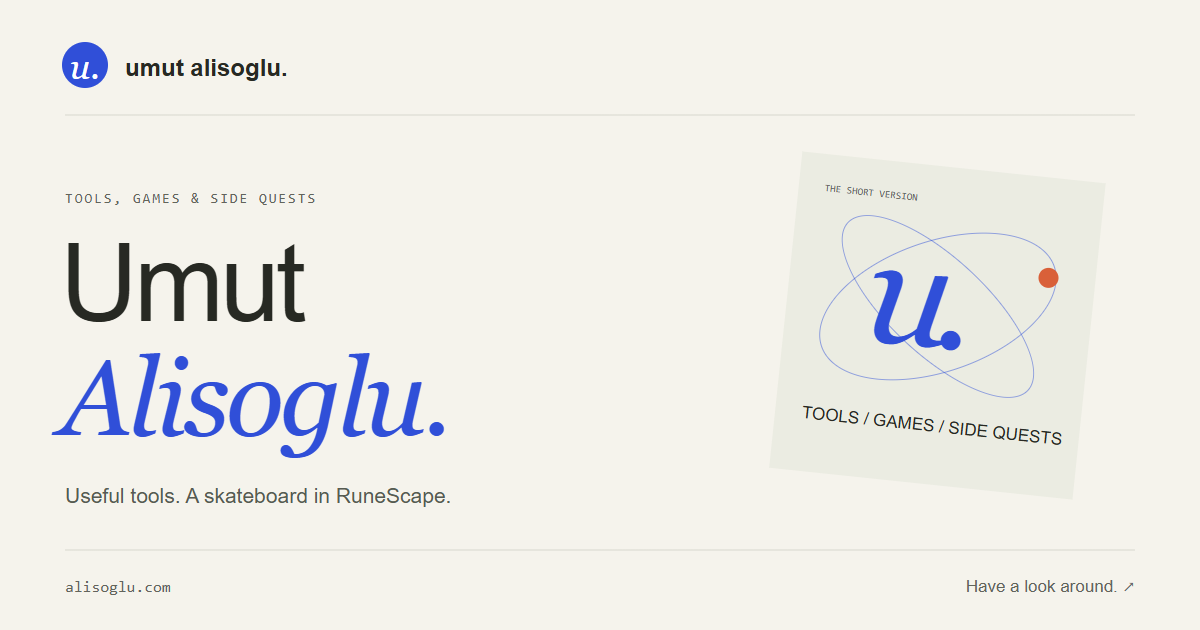
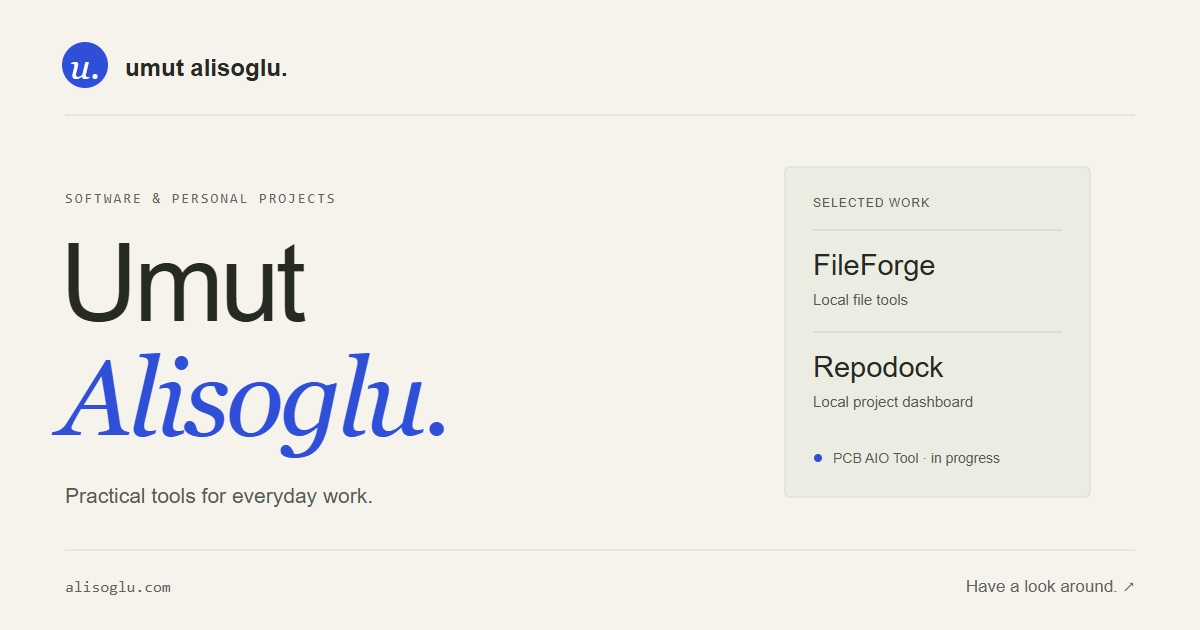
Focus personal site on software and move game to experiments

diff --git a/src/site/personal.css b/src/site/personal.css
@@ -27,16 +27,18 @@
 .personal-actions{display:flex;gap:26px;align-items:center;flex-wrap:wrap}
 .personal-actions .button{padding:14px 19px;font-size:14px;gap:22px}
 .personal-main .button.primary:hover{color:white}
-/* One informal detail, around an actual gameplay capture. */
-.quest-preview{min-width:0;margin:8px 3px 0 0;transform:rotate(1deg);border:1px solid #c7c9bb;border-radius:5px;background:#eeeee5;box-shadow:5px 6px 0 #d9dccd;padding:16px}
-.quest-caption-top{display:flex;align-items:center;justify-content:space-between;gap:12px;font:11px/1.6 var(--mono);color:#485143;margin-bottom:14px}
-.quest-label{font:11px/1.5 var(--sans);border:1px solid #bbc2b1;border-radius:3px;padding:4px 6px}
-.quest-image-link{display:block;overflow:hidden;background:#203b30}
-.quest-image-link img{display:block;width:100%;height:auto;aspect-ratio:1.6;object-fit:cover}
-.quest-preview figcaption{padding:18px 2px 3px;display:grid;gap:8px}
-.quest-preview figcaption strong{font:600 21px/1.3 var(--sans);letter-spacing:-.5px}
-.quest-preview figcaption>span{font-size:13px;line-height:1.7;color:var(--muted)}
-.quest-preview figcaption>a{font-size:14px;font-weight:600;width:fit-content;line-height:1.8}
+.work-overview{padding:30px;border:1px solid var(--line);border-radius:5px;background:#eeeee6;min-width:0}
+.work-overview .eyebrow{margin-bottom:16px}
+.work-overview-item{display:grid;grid-template-columns:24px minmax(0,1fr) 18px;gap:16px;align-items:start;padding:25px 0;border-top:1px solid #d0d3c6}
+.work-overview-number{font:11px/1.8 var(--mono);color:var(--muted);padding-top:4px}
+.work-overview-item strong{display:block;font-size:27px;font-weight:600;letter-spacing:-.6px;line-height:1.3}
+.work-overview-item small{display:block;font-size:14px;line-height:1.7;color:var(--muted);margin-top:7px}
+.work-overview-arrow{font-size:21px;color:var(--accent)}
+.work-overview-more{display:flex;justify-content:space-between;gap:12px;border-top:1px solid #d0d3c6;padding-top:22px;font-size:14px;font-weight:500;line-height:1.8}
+@media(max-width:580px){.work-overview{padding:23px}.work-overview-item{gap:12px}.work-overview-item strong{font-size:25px}}
+.other-projects{margin-top:58px;padding-top:32px;border-top:1px solid var(--line)}
+.other-projects h2{font-size:28px;letter-spacing:-.7px}
+.other-projects-intro{font-size:15px;line-height:1.8;color:var(--muted);max-width:620px}
 .personal-current{padding:26px 30px;background:#ebece2;border:1px solid #d8dccf;border-radius:5px;display:grid;grid-template-columns:1fr 1.2fr;gap:24px;align-items:center;margin:0 0 60px}
 .personal-current h2{font-size:20px;letter-spacing:-.4px}
 .personal-current>div>p{font-size:12px;line-height:1.7;color:var(--muted);margin:7px 0 0}
@@ -47,7 +49,7 @@
 .personal-projects{border-top:1px solid var(--line);padding:48px 0 62px;scroll-margin-top:28px}
 .personal-section-heading{display:flex;justify-content:space-between;align-items:end;gap:30px;margin-bottom:34px}
 .personal-section-heading .eyebrow{margin-bottom:13px}
-.personal-project-grid{display:grid;grid-template-columns:repeat(3,minmax(0,1fr));gap:28px}
+.personal-project-grid{display:grid;grid-template-columns:repeat(2,minmax(0,1fr));gap:36px}
 .personal-project{min-width:0;display:flex;flex-direction:column}
 .project-cover{display:block;overflow:hidden;border:1px solid #cdd0c5;border-radius:6px;background:#e8ebe2;transition:border-color .18s}
 .project-cover:hover{border-color:var(--accent)}
@@ -115,7 +117,7 @@
 .project-page .project-facts strong,.project-page .eyebrow{font-size:12px}
 .project-page .project-facts>span{font-size:14px;line-height:1.7}
 .project-page .project-screenshot figcaption{font-size:12px;line-height:1.7}
-@media(max-width:1050px){.personal-hero{gap:38px}.quest-caption-top{flex-wrap:wrap;gap:8px}.personal-project-grid{gap:22px}.personal-project-meta{font-size:10px}.preview-bar{font-size:10px;gap:8px}.personal-about{gap:40px}.hub-header nav{gap:19px}}
-@media(max-width:820px){.wrap{width:calc(100% - 56px)}.hub-header{flex-wrap:wrap;gap:20px}.hub-header nav{width:100%;margin:0;justify-content:flex-start;gap:10px 24px}.personal-hero{grid-template-columns:1fr;gap:42px;padding:55px 0}.personal-main h1{font-size:90px}.intro-copy{max-width:550px}.quest-preview{max-width:560px;width:calc(100% - 5px);margin:0 auto}.quest-caption-top{flex-wrap:nowrap}.personal-project-grid{grid-template-columns:1fr;gap:42px}.project-cover{max-width:600px}.personal-current{margin-bottom:45px;grid-template-columns:1fr 1.5fr}.personal-about{gap:30px}.personal-about>div>p:not(.eyebrow){font-size:16px}.personal-contact{gap:28px}.hello-link{font-size:32px;min-width:235px}.hello-link>span{margin-left:28px}.about-intro{gap:30px;padding-block:55px}.about-intro h1{font-size:58px}.about-profile-links{padding:22px}.about-profile-links>a{font-size:12px;gap:10px}.new-footer{grid-template-columns:1fr;gap:24px}.new-footer>div{justify-content:flex-start}.sample-jobs{grid-template-columns:1fr}.sample-jobs>div{gap:8px}}
-@media(max-width:580px){.wrap{width:calc(100% - 40px)}.hub-header{padding-block:20px}.hub-header .wordmark{font-size:20px}.hub-header nav{gap:8px 18px}.hub-header nav a{font-size:13px}.hub-header .nav-contact{margin-left:auto}.personal-hero{padding:42px 0 46px;gap:36px}.personal-main h1{font-size:clamp(60px,17vw,86px);letter-spacing:-2.5px}.personal-main h1 em{letter-spacing:-2px}.intro-copy{font-size:17px;margin-block:24px}.personal-actions{gap:18px}.personal-actions .button{font-size:13px;padding:13px 15px;gap:13px}.personal-main .text-link{font-size:13px}.quest-preview{padding:12px}.quest-caption-top{font-size:10px;gap:8px}.quest-label{font-size:10px;padding:3px 5px}.quest-preview figcaption strong{font-size:20px}.personal-current{grid-template-columns:1fr;padding:23px;gap:20px;margin-bottom:36px}.current-project{font-size:17px}.personal-section-heading{align-items:start;flex-direction:column;gap:17px;margin-bottom:27px}.personal-main h2{font-size:32px}.personal-current h2{font-size:20px}.personal-projects{padding:34px 0 42px}.preview-bar{font-size:11px}.personal-project-meta{font-size:11px;margin-top:20px}.project-actions{gap:16px 26px}.project-actions a{font-size:14px}.personal-tool-note{padding-block:26px}.personal-about{grid-template-columns:1fr;gap:25px;padding-block:40px}.personal-contact{flex-direction:column;align-items:flex-start;gap:25px;padding-block:38px}.personal-contact p:not(.eyebrow){font-size:15px}.hello-link{font-size:34px;min-width:240px}.about-intro{grid-template-columns:1fr;padding-block:43px;gap:32px}.about-intro h1{font-size:clamp(48px,11.5vw,66px)}.about-profile-links{max-width:none;margin:0}.personal-about-page .project-row{grid-template-columns:44px minmax(0,1fr) 18px;gap:14px;padding-inline:0}.personal-about-page .project-mini{height:44px;font-size:29px}.personal-about-page .project-mini img{width:28px;height:28px}.personal-about-page .project-row h3{font-size:23px}.personal-about-page .project-row p{font-size:14px}.personal-about-page .project-label{font-size:10px}.new-footer .footer-note{flex-wrap:wrap}.project-page .story-section p{font-size:15px}}
+@media(max-width:1050px){.personal-hero{gap:38px}.personal-project-grid{gap:22px}.personal-project-meta{font-size:10px}.preview-bar{font-size:10px;gap:8px}.personal-about{gap:40px}.hub-header nav{gap:19px}}
+@media(max-width:820px){.wrap{width:calc(100% - 56px)}.hub-header{flex-wrap:wrap;gap:20px}.hub-header nav{width:100%;margin:0;justify-content:flex-start;gap:10px 24px}.personal-hero{grid-template-columns:1fr;gap:42px;padding:55px 0}.personal-main h1{font-size:90px}.intro-copy{max-width:550px}.personal-project-grid{grid-template-columns:1fr;gap:42px}.project-cover{max-width:600px}.personal-current{margin-bottom:45px;grid-template-columns:1fr 1.5fr}.personal-about{gap:30px}.personal-about>div>p:not(.eyebrow){font-size:16px}.personal-contact{gap:28px}.hello-link{font-size:32px;min-width:235px}.hello-link>span{margin-left:28px}.about-intro{gap:30px;padding-block:55px}.about-intro h1{font-size:58px}.about-profile-links{padding:22px}.about-profile-links>a{font-size:12px;gap:10px}.new-footer{grid-template-columns:1fr;gap:24px}.new-footer>div{justify-content:flex-start}.sample-jobs{grid-template-columns:1fr}.sample-jobs>div{gap:8px}}
+@media(max-width:580px){.wrap{width:calc(100% - 40px)}.hub-header{padding-block:20px}.hub-header .wordmark{font-size:20px}.hub-header nav{gap:8px 18px}.hub-header nav a{font-size:13px}.hub-header .nav-contact{margin-left:auto}.personal-hero{padding:42px 0 46px;gap:36px}.personal-main h1{font-size:clamp(60px,17vw,86px);letter-spacing:-2.5px}.personal-main h1 em{letter-spacing:-2px}.intro-copy{font-size:17px;margin-block:24px}.personal-actions{gap:18px}.personal-actions .button{font-size:13px;padding:13px 15px;gap:13px}.personal-main .text-link{font-size:13px}.personal-current{grid-template-columns:1fr;padding:23px;gap:20px;margin-bottom:36px}.current-project{font-size:17px}.personal-section-heading{align-items:start;flex-direction:column;gap:17px;margin-bottom:27px}.personal-main h2{font-size:32px}.personal-current h2{font-size:20px}.personal-projects{padding:34px 0 42px}.preview-bar{font-size:11px}.personal-project-meta{font-size:11px;margin-top:20px}.project-actions{gap:16px 26px}.project-actions a{font-size:14px}.personal-tool-note{padding-block:26px}.personal-about{grid-template-columns:1fr;gap:25px;padding-block:40px}.personal-contact{flex-direction:column;align-items:flex-start;gap:25px;padding-block:38px}.personal-contact p:not(.eyebrow){font-size:15px}.hello-link{font-size:34px;min-width:240px}.about-intro{grid-template-columns:1fr;padding-block:43px;gap:32px}.about-intro h1{font-size:clamp(48px,11.5vw,66px)}.about-profile-links{max-width:none;margin:0}.personal-about-page .project-row{grid-template-columns:44px minmax(0,1fr) 18px;gap:14px;padding-inline:0}.personal-about-page .project-mini{height:44px;font-size:29px}.personal-about-page .project-mini img{width:28px;height:28px}.personal-about-page .project-row h3{font-size:23px}.personal-about-page .project-row p{font-size:14px}.personal-about-page .project-label{font-size:10px}.new-footer .footer-note{flex-wrap:wrap}.project-page .story-section p{font-size:15px}}
 @media(prefers-reduced-motion:reduce){html{scroll-behavior:auto}.project-cover,.button{transition:none}.button:hover{transform:none}}

diff --git a/index.html b/index.html
@@ -3,13 +3,13 @@
 <head>
   <meta charset="utf-8">
   <meta name="viewport" content="width=device-width,initial-scale=1">
-  <title>Umut Alisoglu — Tools, games & side quests</title>
-  <meta name="description" content="I’m Umut Alisoglu. I make FileForge, Repodock and Skate Scape: local file tools, a Windows project launcher and a RuneScape skating fan game.">
+  <title>Umut Alisoglu — Software & personal projects</title>
+  <meta name="description" content="I’m Umut Alisoglu. I build practical software: FileForge local file tools, Repodock for Windows, and a PCB AIO Tool currently in progress.">
   <meta name="theme-color" content="#f5f3ec">
   <link rel="canonical" href="https://alisoglu.com/">
   <meta property="og:type" content="website">
-  <meta property="og:title" content="Umut Alisoglu — Tools, games & side quests">
-  <meta property="og:description" content="File tools, local apps and RuneScape on a skateboard. The projects and side quests of Umut Alisoglu.">
+  <meta property="og:title" content="Umut Alisoglu — Software & personal projects">
+  <meta property="og:description" content="Practical software, local file tools and desktop apps by Umut Alisoglu. Currently building a PCB AIO Tool.">
   <meta property="og:url" content="https://alisoglu.com/">
   <meta property="og:image" content="https://alisoglu.com/assets/social-card.png">
   <link rel="icon" href="/assets/monogram.svg" type="image/svg+xml">
@@ -21,12 +21,12 @@
   <main id="main" class="wrap personal-main">
     <section class="personal-hero" aria-labelledby="intro-title">
       <div class="personal-intro">
-        <p class="eyebrow"><span class="intro-dot" aria-hidden="true"></span> MY PERSONAL WORKSHOP</p>
+        <p class="eyebrow"><span class="intro-dot" aria-hidden="true"></span> SOFTWARE &amp; PERSONAL PROJECTS</p>
         <h1 id="intro-title">Umut<br><em>Alisoglu.</em></h1>
-        <p class="intro-copy">I build useful tools and occasionally put a skateboard in RuneScape. This is where I keep my projects, experiments and side quests.</p>
+        <p class="intro-copy">I build practical software for everyday work. Local file tools, desktop apps, and a PCB AIO Tool currently in progress.</p>
         <div class="personal-actions"><a class="button primary" href="#projects">Explore my projects <span aria-hidden="true">↓</span></a><a class="text-link" href="/about/">A bit about me <span aria-hidden="true">↗</span></a></div>
       </div>
-      <figure class="quest-preview"><div class="quest-caption-top"><span>SIDE QUEST / SKATE SCAPE</span><span class="quest-label">Unofficial fan project</span></div><a href="/projects/skate-scape/" class="quest-image-link" aria-label="Meet Skate Scape, my RuneScape skating fan project"><img src="/assets/screenshots/skate-scape.jpg" width="1440" height="900" fetchpriority="high" alt="Skate Scape gameplay: a skater on a board in Lumbridge’s castle courtyard"></a><figcaption><strong>Gielinor. Now with grip tape.</strong><span>RuneScape meets skateboarding. Just because.</span><a href="/skate-scape/">Have a skate <span aria-hidden="true">↗</span></a></figcaption></figure>
+      <aside class="work-overview" aria-label="Featured software"><p class="eyebrow">A FEW THINGS I’VE BUILT</p><a class="work-overview-item" href="/projects/fileforge/"><span class="work-overview-number">01</span><span><strong>FileForge</strong><small>File tools that run on your device.</small></span><span class="work-overview-arrow" aria-hidden="true">↗</span></a><a class="work-overview-item" href="/projects/repodock/"><span class="work-overview-number">02</span><span><strong>Repodock</strong><small>A dashboard for local GitHub projects.</small></span><span class="work-overview-arrow" aria-hidden="true">↗</span></a><a class="work-overview-more" href="/tools/">Explore the free browser tools <span aria-hidden="true">→</span></a></aside>
     </section>
     <section class="personal-current" aria-labelledby="currently-title">
       <div><h2 id="currently-title">Currently</h2><p>Updated <time datetime="2026-10-23">23 October 2026</time></p></div>
@@ -43,13 +43,9 @@
           <a class="project-cover" href="/projects/repodock/" aria-label="Explore Repodock"><span class="preview-bar"><span aria-hidden="true">● ● ●</span> repodock / dashboard</span><img src="/assets/repodock-dashboard.png" width="1440" height="900" alt="Repodock’s dashboard for running local projects" loading="lazy"></a>
           <div class="personal-project-meta"><span>WINDOWS APP</span><span>02</span></div><h3><a href="/projects/repodock/">Repodock <span aria-hidden="true">↗</span></a></h3><p>A place to go from finding a GitHub project to running it, with logs and controls in one dashboard.</p><p class="project-decision"><strong>A design choice</strong>You can review detected commands before starting a project.</p><nav class="project-actions" aria-label="Repodock links"><a href="/projects/repodock/#download">Download ↓</a><a href="/projects/repodock/">Details →</a><a href="https://github.com/UmutAlisoglu/repodock">Source ↗</a></nav>
         </article>
-        <article class="personal-project">
-          <a class="project-cover" href="/projects/skate-scape/" aria-label="Explore Skate Scape, an unofficial fan project"><span class="preview-bar"><span aria-hidden="true">● ● ●</span> skate scape / free skate</span><img src="/assets/screenshots/skate-scape-session.jpg" width="1440" height="900" loading="lazy" alt="A second Skate Scape gameplay view while skating in Lumbridge"></a>
-          <div class="personal-project-meta"><span>BROWSER GAME / FAN PROJECT</span><span>03</span></div><h3><a href="/projects/skate-scape/">Skate Scape <span aria-hidden="true">↗</span></a></h3><p>What if you could skateboard around RuneScape? Tony Hawk-style tricks in 2009 Gielinor. An unofficial fan project.</p><p class="project-decision"><strong>A design choice</strong>Free skating and trick combinations leave room to find your own line.</p><nav class="project-actions" aria-label="Skate Scape links"><a href="/skate-scape/">Play ↗</a><a href="/projects/skate-scape/">Details →</a><a href="https://github.com/UmutAlisoglu/skate-scape">Source ↗</a></nav>
-        </article>
       </div>
     </section>
-    <aside class="personal-tool-note" aria-label="Free browser tools"><div><h2>Free browser tools</h2><p>No sign-up. Your files are processed on your device.</p></div><nav aria-label="Document shortcuts"><a href="/tools/word-to-pdf/">Word → PDF ↗</a><a href="/tools/powerpoint-to-pdf/">PowerPoint → PDF ↗</a><a href="/tools/">All free tools →</a></nav></aside><section class="personal-about" id="about" aria-labelledby="about-title"><div><p class="eyebrow">02 / ABOUT</p><h2 id="about-title">Behind the projects</h2></div><div><p>I’m the person behind FileForge, Repodock and Skate Scape. Practical tools sit alongside projects made just for the fun of trying an idea.</p><p>This site brings them together: something to use, something to play, and code you can look through.</p><a class="text-link" href="/about/">More about me <span aria-hidden="true">↗</span></a></div></section>
+    <aside class="personal-tool-note" aria-label="Free browser tools"><div><h2>Free browser tools</h2><p>No sign-up. Your files are processed on your device.</p></div><nav aria-label="Document shortcuts"><a href="/tools/word-to-pdf/">Word → PDF ↗</a><a href="/tools/powerpoint-to-pdf/">PowerPoint → PDF ↗</a><a href="/tools/">All free tools →</a></nav></aside><section class="personal-about" id="about" aria-labelledby="about-title"><div><p class="eyebrow">02 / ABOUT</p><h2 id="about-title">Behind the projects</h2></div><div><p>I’m the person behind FileForge and Repodock. I build tools for working with files and running local projects, with public source and clear ways to get started.</p><p>This site brings together the software I’ve released and what I’m working on next.</p><a class="text-link" href="/about/">More about me <span aria-hidden="true">↗</span></a></div></section>
     <section class="personal-contact" aria-labelledby="hello-title"><div><p class="eyebrow">03 / CONTACT</p><h2 id="hello-title">Get in touch</h2><p>An idea, a question, a bug you found. I’d like to hear it.</p></div><a class="hello-link" href="mailto:umut@alisoglu.com">Say hello <span aria-hidden="true">↗</span><small>umut@alisoglu.com</small></a></section>
   </main>
   <site-footer></site-footer>

diff --git a/about/index.html b/about/index.html
@@ -4,12 +4,12 @@
   <meta charset="utf-8">
   <meta name="viewport" content="width=device-width,initial-scale=1">
   <title>A bit about me — Umut Alisoglu</title>
-  <meta name="description" content="I’m Umut Alisoglu, the person behind FileForge, Repodock and Skate Scape. Local file tools, Windows apps and a RuneScape skating fan project.">
+  <meta name="description" content="I’m Umut Alisoglu, the person behind FileForge and Repodock. I build practical software and am currently working on a PCB AIO Tool.">
   <meta name="theme-color" content="#f5f3ec">
   <link rel="canonical" href="https://alisoglu.com/about/">
   <meta property="og:type" content="profile">
   <meta property="og:title" content="A bit about me — Umut Alisoglu">
-  <meta property="og:description" content="FileForge, Repodock, and a skateboard in Gielinor. A little about Umut Alisoglu and his projects.">
+  <meta property="og:description" content="A little about Umut Alisoglu, his software projects and the PCB AIO Tool currently in progress.">
   <meta property="og:url" content="https://alisoglu.com/about/">
   <meta property="og:image" content="https://alisoglu.com/assets/social-card.png">
   <link rel="icon" href="/assets/monogram.svg" type="image/svg+xml">
@@ -19,10 +19,10 @@
 <body class="personal-about-page">
   <site-header></site-header>
   <main id="main" class="wrap personal-main">
-    <section class="about-intro" aria-labelledby="about-title"><div><p class="eyebrow">A BIT ABOUT ME</p><h1 id="about-title">A bit<br>about <em>me.</em></h1></div><aside class="about-profile-links" aria-label="Find me online"><span class="profile-handle">u.</span><p>Umut Alisoglu<span>Tools &amp; side quests.</span></p><a href="https://github.com/UmutAlisoglu">GitHub <span>@UmutAlisoglu ↗</span></a><a href="mailto:umut@alisoglu.com">Email <span>umut@alisoglu.com ↗</span></a></aside></section>
-    <section class="personal-about about-story" aria-labelledby="story-title"><div><p class="eyebrow">THE PERSON BEHIND THE PROJECTS</p><h2 id="story-title">Hi, I’m Umut.</h2></div><div><p>I’m the person behind FileForge, Repodock and Skate Scape. Two practical projects and one very particular idea: what if you could skate around the RuneScape world?</p><p>FileForge is for the everyday file jobs: convert something, sort some pages, move on. Repodock gives GitHub projects a local dashboard. Skate Scape takes Tony Hawk-style tricks into 2009 Gielinor. It’s an unofficial fan project, made for the fun of it.</p><p>The browser tools run on your device, without an account or file upload. The desktop apps have public source and downloads. This site keeps the projects together, with enough detail to get started.</p></div></section>
+    <section class="about-intro" aria-labelledby="about-title"><div><p class="eyebrow">A BIT ABOUT ME</p><h1 id="about-title">A bit<br>about <em>me.</em></h1></div><aside class="about-profile-links" aria-label="Find me online"><span class="profile-handle">u.</span><p>Umut Alisoglu<span>Software &amp; personal projects.</span></p><a href="https://github.com/UmutAlisoglu">GitHub <span>@UmutAlisoglu ↗</span></a><a href="mailto:umut@alisoglu.com">Email <span>umut@alisoglu.com ↗</span></a></aside></section>
+    <section class="personal-about about-story" aria-labelledby="story-title"><div><p class="eyebrow">THE PERSON BEHIND THE PROJECTS</p><h2 id="story-title">Hi, I’m Umut.</h2></div><div><p>I’m the person behind FileForge and Repodock. My projects focus on practical tasks: working with everyday files and making local software easier to manage.</p><p>FileForge brings file conversion and PDF tools into the browser. Repodock gives GitHub projects a dashboard on Windows, with run controls and logs in one place.</p><p>The browser tools run on your device, without an account or file upload. The desktop apps have public source and downloads. This site keeps the projects together, with enough detail to get started.</p></div></section>
     <section class="personal-current" aria-labelledby="currently-title"><div><h2 id="currently-title">Currently</h2><p>Updated <time datetime="2026-10-23">23 October 2026</time></p></div><p class="current-project"><span class="current-marker" aria-hidden="true"></span><span>Building a <strong>PCB AIO Tool</strong><small>In progress</small></span></p></section>
-    <section class="about-project-list" id="work" aria-labelledby="work-title"><div class="personal-section-heading"><div><p class="eyebrow">SELECTED WORK</p><h2 id="work-title">My projects</h2></div><a class="text-link" href="/projects/">Project details ↗</a></div><div class="project-rows"><a class="project-row" href="/projects/fileforge/"><span class="project-mini tone-purple"><img src="/assets/fileforge.svg" width="38" height="38" alt=""></span><span><span class="project-label">FILES, SORTED</span><h3>FileForge</h3><p>Browser tools for images, PDFs, video and text, plus a Windows app.</p></span><span class="row-arrow" aria-hidden="true">↗</span></a><a class="project-row" href="/projects/repodock/"><span class="project-mini tone-blue" aria-hidden="true">r.</span><span><span class="project-label">A HOME FOR LOCAL PROJECTS</span><h3>Repodock</h3><p>A Windows dashboard for launching GitHub projects and keeping an eye on their logs.</p></span><span class="row-arrow" aria-hidden="true">↗</span></a><a class="project-row" href="/projects/skate-scape/"><span class="project-mini tone-mint" aria-hidden="true">↗</span><span><span class="project-label">JUST FOR THE FUN OF IT</span><h3>Skate Scape</h3><p>Tony Hawk-style tricks in the 2009 RuneScape world. An unofficial fan project.</p></span><span class="row-arrow" aria-hidden="true">↗</span></a></div></section>
+    <section class="about-project-list" id="work" aria-labelledby="work-title"><div class="personal-section-heading"><div><p class="eyebrow">SELECTED WORK</p><h2 id="work-title">My projects</h2></div><a class="text-link" href="/projects/">Project details ↗</a></div><div class="project-rows"><a class="project-row" href="/projects/fileforge/"><span class="project-mini tone-purple"><img src="/assets/fileforge.svg" width="38" height="38" alt=""></span><span><span class="project-label">FILES, SORTED</span><h3>FileForge</h3><p>Browser tools for images, PDFs, video and text, plus a Windows app.</p></span><span class="row-arrow" aria-hidden="true">↗</span></a><a class="project-row" href="/projects/repodock/"><span class="project-mini tone-blue" aria-hidden="true">r.</span><span><span class="project-label">A HOME FOR LOCAL PROJECTS</span><h3>Repodock</h3><p>A Windows dashboard for launching GitHub projects and keeping an eye on their logs.</p></span><span class="row-arrow" aria-hidden="true">↗</span></a></div></section>
     <section class="personal-contact" id="contact" aria-labelledby="hello-title"><div><p class="eyebrow">KEEP IN TOUCH</p><h2 id="hello-title">Get in touch</h2><p>You can find the code on <a class="text-link" href="https://github.com/UmutAlisoglu">GitHub ↗</a>, or drop me an email.</p></div><a class="hello-link" href="mailto:umut@alisoglu.com">Say hello <span aria-hidden="true">↗</span><small>umut@alisoglu.com</small></a></section>
   </main>
   <site-footer></site-footer>

diff --git a/projects/index.html b/projects/index.html
@@ -4,12 +4,12 @@
   <meta charset="utf-8">
   <meta name="viewport" content="width=device-width,initial-scale=1">
   <title>Projects &amp; experiments — Alisoglu</title>
-  <meta name="description" content="Meet FileForge, Repodock and Skate Scape. Explore how the projects work, get setup instructions and find releases.">
+  <meta name="description" content="Explore FileForge and Repodock: practical file tools and local software. Find setup instructions, releases and other experiments.">
   <meta name="theme-color" content="#f8f4e9">
   <link rel="canonical" href="https://alisoglu.com/projects/">
   <meta property="og:type" content="website">
   <meta property="og:title" content="Projects &amp; experiments — Alisoglu">
-  <meta property="og:description" content="Meet FileForge, Repodock and Skate Scape. Explore how the projects work, get setup instructions and find releases.">
+  <meta property="og:description" content="Explore FileForge and Repodock: practical file tools and local software. Find setup instructions, releases and other experiments.">
   <meta property="og:url" content="https://alisoglu.com/projects/">
   <meta property="og:image" content="https://alisoglu.com/assets/social-card.png">
   <link rel="icon" href="/assets/monogram.svg" type="image/svg+xml">
@@ -19,11 +19,11 @@
 </head>
 <body>
   <site-header></site-header>
-  <main id="main" class="wrap directory-page"><div class="page-intro"><p class="eyebrow">TOOLS, GAMES &amp; SIDE QUESTS</p><h1>A few things<br><em>I’ve been making.</em></h1><p>Some started with a small annoyance. One started with a skateboard. Here’s what they do, where to try them and what’s still in progress.</p></div><div class="project-rows">
+  <main id="main" class="wrap directory-page"><div class="page-intro"><p class="eyebrow">SOFTWARE &amp; PERSONAL PROJECTS</p><h1>Software<br><em>and projects.</em></h1><p>Tools for everyday files and working with local projects. Here’s what they do, where to try them and how to get started.</p></div><div class="project-rows">
 <a class="project-row" href="/projects/fileforge/"><span class="project-mini tone-purple"><img src="/assets/fileforge.svg" width="38" height="38" alt=""></span><span><span class="project-label">BROWSER TOOLS + WINDOWS APP</span><h3>FileForge</h3><p>Less file frustration. More getting things done.</p></span><span class="row-status">Available</span><span class="row-arrow" aria-hidden="true">↗</span></a>
 <a class="project-row" href="/projects/repodock/"><span class="project-mini tone-blue" aria-hidden="true">r.</span><span><span class="project-label">LOCAL PROJECT LAUNCHER</span><h3>Repodock</h3><p>A home for the GitHub projects you actually want to run.</p></span><span class="row-status">Windows app</span><span class="row-arrow" aria-hidden="true">↗</span></a>
-<a class="project-row" href="/projects/skate-scape/"><span class="project-mini tone-mint" aria-hidden="true">↗</span><span><span class="project-label">GAME EXPERIMENT</span><h3>Skate Scape</h3><p>Tricks, combos and a world to explore in your browser.</p></span><span class="row-status">Fan project</span><span class="row-arrow" aria-hidden="true">↗</span></a>
-</div><section class="workshop-note"><div><p class="eyebrow">A LITTLE CONTEXT</p><h2>Still making things.</h2><p>I add to these when I have something worth trying. The project pages have the source, setup notes and downloads. If something breaks or you have an idea, let me know.</p><a class="text-link" href="/contact/">Share an idea →</a> <a class="text-link" href="/about/">A bit about me →</a></div></section></main>
+</div><section class="other-projects" id="experiments" aria-labelledby="experiments-title"><p class="eyebrow">OTHER PROJECTS</p><h2 id="experiments-title">Experiments</h2><p class="other-projects-intro">A separate space for smaller explorations outside my main software projects.</p><div class="project-rows"><a class="project-row" href="/projects/skate-scape/"><span class="project-mini tone-mint" aria-hidden="true">↗</span><span><span class="project-label">BROWSER EXPERIMENT / FAN PROJECT</span><h3>Skate Scape</h3><p>Tricks, combos and a world to explore in your browser.</p></span><span class="row-status">Fan project</span><span class="row-arrow" aria-hidden="true">↗</span></a>
+</div></section><section class="workshop-note"><div><p class="eyebrow">A LITTLE CONTEXT</p><h2>Still making things.</h2><p>I add to these when I have something worth trying. The project pages have the source, setup notes and downloads. If something breaks or you have an idea, let me know.</p><a class="text-link" href="/contact/">Share an idea →</a> <a class="text-link" href="/about/">A bit about me →</a></div></section></main>
   <site-footer></site-footer>
 </body>
 </html>

diff --git a/src/site/templates.js b/src/site/templates.js
@@ -16,11 +16,11 @@ function header(path) {
   const finder = path.startsWith('/tools/') ? '<button type="button" class="tool-switcher-trigger" data-open-tools hidden aria-haspopup="dialog" title="Find a tool (Ctrl or Command + K)">Find a tool</button>' : '';
   return `<a class="skip-link" href="#main">Skip to content</a>
 <header class="site-header wrap hub-header">
-  <a class="wordmark" href="/" aria-label="Umut Alisoglu home"><span class="monogram">u.</span><span>umut alisoglu<span class="wordmark-dot">.</span><small>tools &amp; side quests</small></span></a>
+  <a class="wordmark" href="/" aria-label="Umut Alisoglu home"><span class="monogram">u.</span><span>umut alisoglu<span class="wordmark-dot">.</span><small>software &amp; projects</small></span></a>
   <nav aria-label="Main navigation">${navigation.map(([href, label]) => `<a href="${href}"${(href === '/' ? path === '/' : path.startsWith(href)) ? ` aria-current="${path === href ? 'page' : 'true'}"` : ''}>${label}</a>`).join('')}${finder}<a href="/contact/" class="nav-contact"${path === '/contact/' ? ' aria-current="page"' : ''}>Say hello <span aria-hidden="true">↗</span></a></nav>
 </header>`;
 }
-const footer = `<footer class="site-footer wrap new-footer"><a class="footer-brand" href="/">umut alisoglu<span>.</span><small>Thanks for stopping by.</small></a><div><a href="/about/">About me</a><a href="/contact/">Contact & feedback</a><a href="/tools/workspace/">FileForge workspace</a><a href="/downloads/">Downloads</a><a href="/games/">Games</a><a href="/idea-machine/">Idea machine</a><button type="button" data-open-offline class="footer-offline">Offline tools</button><a href="/privacy/">Privacy</a><a href="/THIRD_PARTY_NOTICES.md">Credits</a></div><p class="footer-note"><span>© 2026 Umut Alisoglu</span><a href="https://github.com/UmutAlisoglu/umutalisoglu.github.io">This site on GitHub ↗</a></p></footer>`;
+const footer = `<footer class="site-footer wrap new-footer"><a class="footer-brand" href="/">umut alisoglu<span>.</span><small>Thanks for stopping by.</small></a><div><a href="/about/">About me</a><a href="/contact/">Contact & feedback</a><a href="/tools/workspace/">FileForge workspace</a><a href="/downloads/">Downloads</a><a href="/projects/#experiments">Other projects</a><a href="/idea-machine/">Idea generator</a><button type="button" data-open-offline class="footer-offline">Offline tools</button><a href="/privacy/">Privacy</a><a href="/THIRD_PARTY_NOTICES.md">Credits</a></div><p class="footer-note"><span>© 2026 Umut Alisoglu</span><a href="https://github.com/UmutAlisoglu/umutalisoglu.github.io">This site on GitHub ↗</a></p></footer>`;
 
 // Vite expands these fragments into ordinary HTML, before bundling scripts and styles.
 // Visitors receive the complete page; shared navigation needs no JavaScript.

diff --git a/src/site/discovery.js b/src/site/discovery.js
@@ -3,7 +3,7 @@ export function discoveryTags(path) {
   const url = `https://alisoglu.com${path}`;
   const tool = allToolPages.find(tool => path === `/tools/${tool.slug}/`);
   const person = { '@type': 'Person', '@id': 'https://alisoglu.com/#umut', name: 'Umut Alisoglu', url: 'https://alisoglu.com/about/', sameAs: ['https://github.com/UmutAlisoglu'] };
-  const site = { '@type': 'WebSite', '@id': 'https://alisoglu.com/#website', name: 'Umut Alisoglu', url: 'https://alisoglu.com/', author: { '@id': person['@id'] }, description: 'FileForge local file tools, Repodock for Windows, and Skate Scape, an unofficial RuneScape skating fan project.' };
+  const site = { '@type': 'WebSite', '@id': 'https://alisoglu.com/#website', name: 'Umut Alisoglu', url: 'https://alisoglu.com/', author: { '@id': person['@id'] }, description: 'Practical software by Umut Alisoglu: FileForge local file tools and Repodock for Windows. Currently building a PCB AIO Tool.' };
   const graph = [person, site];
   if (tool) {
     graph.push({ '@type': 'WebApplication', name: `${tool.name} — FileForge`, url, description: tool.description, applicationCategory: 'UtilitiesApplication', operatingSystem: 'Any modern browser', browserRequirements: 'JavaScript enabled', isAccessibleForFree: true, offers: { '@type': 'Offer', price: '0', priceCurrency: 'USD' }, author: { '@id': person['@id'] }, featureList: ['Runs on your device', 'No file uploads', 'No account required', 'No saved conversion history'] });

diff --git a/README.md b/README.md
@@ -1,13 +1,13 @@
 # Hey, I’m Umut.
 
-This is the source for [alisoglu.com](https://alisoglu.com/), my little corner of the internet. File tools that stay local, a Windows home for GitHub projects, and a fan game that puts a skateboard in RuneScape.
+This is the source for [alisoglu.com](https://alisoglu.com/), my personal website for software and projects. File tools that stay local, a Windows dashboard for GitHub projects, and a PCB AIO Tool currently in progress.
 
 ## Have a look around
 
 - [About me](https://alisoglu.com/about/) — a little about the person behind the tabs.
 - [FileForge](https://alisoglu.com/tools/) — browser tools for images, PDFs, spreadsheets, video and text. There’s a connected workspace for passing results from one tool to another, too.
 - [Repodock](https://alisoglu.com/projects/repodock/) — a Windows app for running local GitHub projects and following their logs.
-- [Skate Scape](https://alisoglu.com/skate-scape/) — an unofficial fan-made browser skating game. Its source lives in the separate [skate-scape repo](https://github.com/UmutAlisoglu/skate-scape).
+- [Other experiments](https://alisoglu.com/projects/#experiments) — separate from the main software portfolio, including the unofficial Skate Scape fan project.
 - [Downloads](https://alisoglu.com/downloads/) — desktop releases and setup notes.
 
 Questions or ideas? [Say hello](mailto:umut@alisoglu.com), or [open an issue](https://github.com/UmutAlisoglu/umutalisoglu.github.io/issues).
